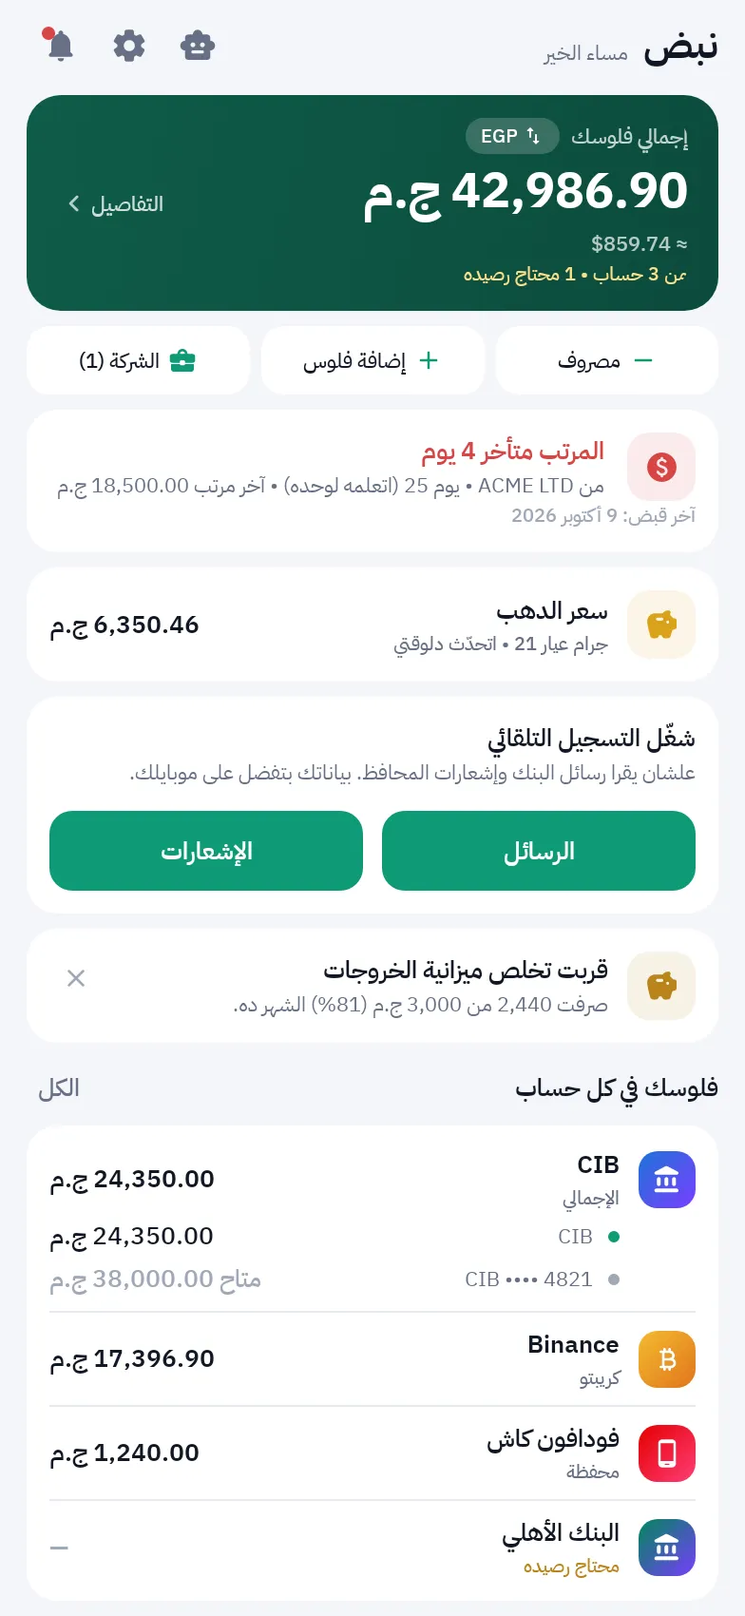
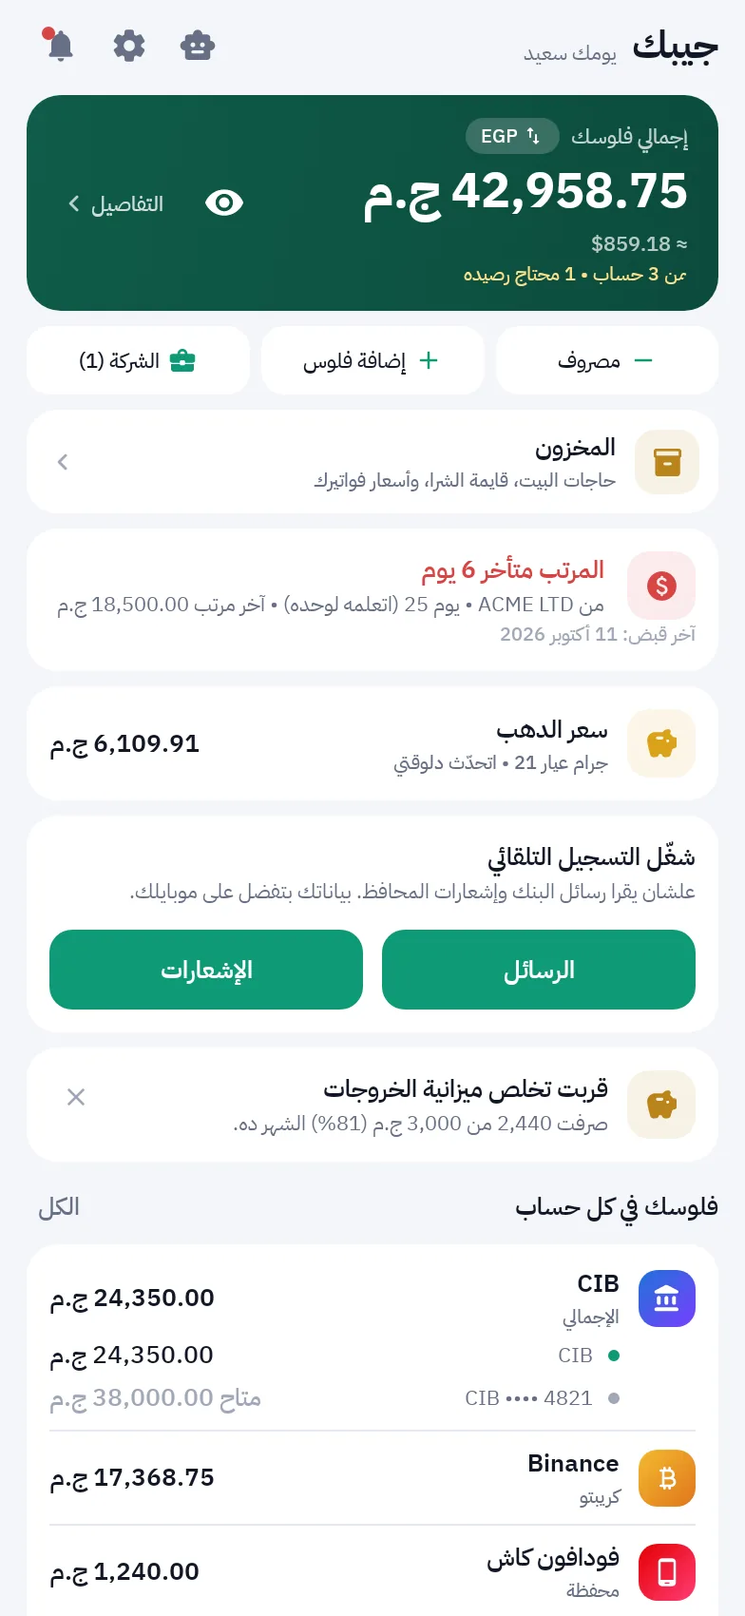
Rename the visible app to Geebak; 5.3
Package id, backup format, invoice numbers and repo links stay the same so updates and data keep working.

diff --git a/docs/about.html b/docs/about.html
@@ -3,11 +3,11 @@
 <head>
 <meta charset="utf-8">
 <meta name="viewport" content="width=device-width, initial-scale=1">
-<title>نبض — نبض فلوسك لحظة بلحظة</title>
-<meta name="description" content="نبض: تطبيق أندرويد بالعربي بيقرا رسايل البنك والمحافظ ويسجل فلوسك لوحده. حسابات، مصاريف شركة، فاتورة وExcel، مخزون البيت وقايمة الشرا، قراءة فواتير السوبر ماركت، سعر الدولار والدهب، تسجيل بالصوت. مفتوح المصدر وبياناتك على موبايلك.">
+<title>جيبك — كل اللي في جيبك، لحظة بلحظة</title>
+<meta name="description" content="جيبك: تطبيق أندرويد بالعربي بيقرا رسايل البنك والمحافظ ويسجل فلوسك لوحده. حسابات، مصاريف شركة، فاتورة وExcel، مخزون البيت وقايمة الشرا، قراءة فواتير السوبر ماركت، سعر الدولار والدهب، تسجيل بالصوت. مفتوح المصدر وبياناتك على موبايلك.">
 <meta name="color-scheme" content="light">
 <meta name="theme-color" content="#FFFFFF">
-<meta property="og:title" content="نبض — نبض فلوسك لحظة بلحظة">
+<meta property="og:title" content="جيبك — كل اللي في جيبك، لحظة بلحظة">
 <meta property="og:description" content="يقرا رسايل البنك والمحافظ ويسجل لوحده. بياناتك على موبايلك، والكود مفتوح.">
 <meta property="og:type" content="website">
 <meta property="og:image" content="https://walidmahmoud101.github.io/nabd/screenshots/1_home_light.png">
@@ -245,9 +245,9 @@ footer a{color:var(--ink)}
 
 <header>
   <div class="wrap nav">
-    <a class="logo" href="#top" aria-label="نبض">
+    <a class="logo" href="#top" aria-label="جيبك">
       <svg viewBox="0 0 64 64" aria-hidden="true"><rect width="64" height="64" rx="16" fill="#0F6B4F"/><path d="M8 34h12l6-16 10 28 7-16h13" fill="none" stroke="#fff" stroke-width="5" stroke-linecap="round" stroke-linejoin="round"/></svg>
-      نبض
+      جيبك
     </a>
     <nav aria-label="أقسام الصفحة">
       <a href="#features">المميزات</a><a href="#stock">المخزون</a><a href="#screens">الصور</a><a href="#privacy">الخصوصية</a><a href="#licenses">التراخيص</a><a href="#faq">أسئلة</a>
@@ -260,7 +260,7 @@ footer a{color:var(--ink)}
 <div class="hero">
   <svg class="band" id="band" viewBox="0 0 1600 340" preserveAspectRatio="xMidYMid slice" aria-hidden="true"><defs><linearGradient id="iris" gradientUnits="userSpaceOnUse" x1="1600" y1="0" x2="0" y2="0"><stop offset="0" style="stop-color:var(--line)"/><stop offset=".36" style="stop-color:var(--line)"/><stop offset=".435" style="stop-color:var(--green)"/><stop offset=".51" style="stop-color:var(--line)"/><stop offset="1" style="stop-color:var(--line)"/></linearGradient></defs></svg>
   <div class="wrap">
-    <h1>نبض فلوسك<br>لحظة بلحظة</h1>
+    <h1>كل اللي في جيبك<br>لحظة بلحظة</h1>
     <div class="hero-body">
       <p class="lead">تطبيق أندرويد بالعربي بيقرا رسايل البنك والمحافظ وإشعارات التطبيقات ويسجل كل حاجة لوحده، ويقولك فلوسك راحت فين، والشركة مديونالك بكام، وإيه اللي خلص من البيت، وسعر الدولار والدهب النهاردة.</p>
       <div class="cta">
@@ -278,7 +278,7 @@ footer a{color:var(--ink)}
 
 <section class="sec" id="features"><div class="wrap">
   <h2>كل فلوسك في مكان واحد</h2>
-  <p class="sub">من أول رسالة بنك لحد فاتورة المحاسب. نبض بيشتغل في الخلفية وانت بتعيش حياتك.</p>
+  <p class="sub">من أول رسالة بنك لحد فاتورة المحاسب. جيبك بيشتغل في الخلفية وانت بتعيش حياتك.</p>
 
   <article class="reading">
     <div>
@@ -295,8 +295,8 @@ footer a{color:var(--ink)}
     <article class="entry"><h3>كل حساباتك</h3><p>إجمالي فلوسك، وإجمالي كل بنك ومحفظة وكارت. وتضيف Binance وTrust Wallet وVisa وGoogle Pay بإيدك بالمبلغ اللي معاك، وإشعاراتها بتتسجل عليها. وكل حساب بمزاجك: يتحسب في الإجمالي أو لأ، وتعدّله في أي وقت.</p></article>
     <article class="entry"><h3>مصاريف الشركة والعهدة</h3><p>اللي دفعته للشغل بالكمية والسعر، وفلوس الشركة اللي معاك، والصافي بينكم. والتحويل منها يقفل المصاريف المستحقة لوحده.</p></article>
     <article class="entry paper">
-      <div><h3>فاتورة PDF وExcel</h3><p>فاتورة باسم نبض جاهزة للطباعة وملف Excel للمحاسب بإجمالي بمعادلة، من مصاريف الشركة بضغطة. وكل فاتورة بتتحفظ برقمها وتبحث بيه.</p></div>
-      <figure><img src="screenshots/web/invoice.webp" width="952" height="1347" loading="lazy" alt="فاتورة مصاريف من نبض ببيانات تجريبية"></figure>
+      <div><h3>فاتورة PDF وExcel</h3><p>فاتورة باسم جيبك جاهزة للطباعة وملف Excel للمحاسب بإجمالي بمعادلة، من مصاريف الشركة بضغطة. وكل فاتورة بتتحفظ برقمها وتبحث بيه.</p></div>
+      <figure><img src="screenshots/web/invoice.webp" width="952" height="1347" loading="lazy" alt="فاتورة مصاريف من جيبك ببيانات تجريبية"></figure>
     </article>
     <article class="entry said">
       <h3>سجّل بصوتك</h3>
@@ -344,7 +344,7 @@ footer a{color:var(--ink)}
   <div class="steps">
     <svg class="beat" viewBox="0 0 1200 88" preserveAspectRatio="none" aria-hidden="true"><path d="M1200 66H1198l-14-44-22 62-16-30-10 12H783l-14-44-22 62-16-30-10 12H366l-14-44-22 62-16-30-10 12H0"/></svg>
     <div class="step"><h3>نزّل وثبّت</h3><p>نزّل <code>nabd.apk</code> من صفحة آخر نسخة وثبّته (اسمح بالتثبيت من المصدر).</p></div>
-    <div class="step"><h3>ادي الصلاحيات</h3><p>صلاحية الرسايل، وفعّل «الوصول للإشعارات» لنبض علشان يلقط إشعارات InstaPay وBinance وغيرها.</p></div>
+    <div class="step"><h3>ادي الصلاحيات</h3><p>صلاحية الرسايل، وفعّل «الوصول للإشعارات» لجيبك علشان يلقط إشعارات InstaPay وBinance وغيرها.</p></div>
     <div class="step"><h3>سيبه يشتغل</h3><p>بيفحص رسايل آخر 4 شهور ويبني تاريخك، وكل عملية جديدة بتتسجل لحظتها حتى والتطبيق مقفول.</p></div>
   </div>
 </div></section>
@@ -371,7 +371,7 @@ footer a{color:var(--ink)}
     <figure><div class="phone"><img src="screenshots/web/8_receipt_light.webp" width="784" height="1700" loading="lazy" alt="مراجعة الفاتورة"></div><figcaption>مراجعة الفاتورة</figcaption></figure>
     <figure><div class="phone"><img src="screenshots/web/9_carrefour_light.webp" width="784" height="1700" loading="lazy" alt="أقسام كارفور"></div><figcaption>أقسام كارفور</figcaption></figure>
     <figure class="sheet-shot"><img src="screenshots/web/invoice.webp" width="952" height="1347" loading="lazy" alt="الفاتورة"><figcaption>فاتورة PDF للمحاسب</figcaption></figure>
-    <figure><div class="phone"><img src="screenshots/web/about_light.webp" width="784" height="1700" loading="lazy" alt="عن نبض"></div><figcaption>عن نبض</figcaption></figure>
+    <figure><div class="phone"><img src="screenshots/web/about_light.webp" width="784" height="1700" loading="lazy" alt="عن جيبك"></div><figcaption>عن جيبك</figcaption></figure>
   </div>
 </section>
 
@@ -395,9 +395,9 @@ footer a{color:var(--ink)}
 
 <section class="sec" id="licenses"><div class="wrap">
   <h2>التراخيص</h2>
-  <p class="sub">نبض مفتوح المصدر. وبيستخدم مكتبات وخط وخدمات تانية تحت تراخيصها، دي كلها.</p>
+  <p class="sub">جيبك مفتوح المصدر. وبيستخدم مكتبات وخط وخدمات تانية تحت تراخيصها، دي كلها.</p>
   <div class="mit">
-    <h3>نبض: MIT</h3>
+    <h3>جيبك: MIT</h3>
     <p>© 2026 Walid Elsayed. تقدر تستخدم الكود وتعدّل عليه وتوزّعه، بشرط تسيب إشعار الحقوق. البرنامج «زي ما هو» من غير ضمان. <a class="link" href="https://github.com/WalidMahmoud101/nabd/blob/main/LICENSE">النص الكامل</a></p>
   </div>
   <div class="tablewrap" tabindex="0" role="region" aria-label="جدول التراخيص"><table>
@@ -425,13 +425,13 @@ footer a{color:var(--ink)}
 <section class="sec" id="faq"><div class="wrap faq">
   <h2>أسئلة بتتكرر</h2>
   <div>
-    <details><summary>هل نبض بيبعت بياناتي لأي مكان؟</summary><p>لأ. كل حاجة على موبايلك. النت بيُستخدم لتحديث التطبيق وسعر الدولار وسعر الدهب بس، ومفيش بيانات مالية بتتبعت.</p></details>
-    <details><summary>ليه محتاج صلاحية الرسايل والإشعارات؟</summary><p>علشان يقرا رسايل البنك والمحافظ ويسجل العمليات لوحده. التطبيقات زي InstaPay وBinance مابتدّيش API، فنبض بيقرا إشعاراتها اللي بتظهر على الموبايل.</p></details>
+    <details><summary>هل جيبك بيبعت بياناتي لأي مكان؟</summary><p>لأ. كل حاجة على موبايلك. النت بيُستخدم لتحديث التطبيق وسعر الدولار وسعر الدهب بس، ومفيش بيانات مالية بتتبعت.</p></details>
+    <details><summary>ليه محتاج صلاحية الرسايل والإشعارات؟</summary><p>علشان يقرا رسايل البنك والمحافظ ويسجل العمليات لوحده. التطبيقات زي InstaPay وBinance مابتدّيش API، فجيبك بيقرا إشعاراتها اللي بتظهر على الموبايل.</p></details>
     <details><summary>صورة الفاتورة بتروح فين؟</summary><p>مابتطلعش من موبايلك. القراءة بتتم جوه التطبيق من غير نت، واللي بيتحفظ هو الأصناف والأسعار بعد ما تراجعها.</p></details>
     <details><summary>قراءة الفاتورة دقيقة؟</summary><p>بتتحسن بالإضاءة الكويسة والفاتورة المفرودة، بس ممكن تغلط في بعض الأرقام والأسماء، خصوصاً الأرقام العربية. علشان كده فيه شاشة مراجعة قبل الحفظ، وبتنبهك لو المجموع مش مطابق.</p></details>
-    <details><summary>نبض تبع كارفور؟</summary><p>لأ. خانة كارفور قايمة أقسام وأصناف جاهزة جوه التطبيق علشان الإضافة تبقى أسرع، من غير اتصال بكارفور ومن غير أسعار منه. والقايمة بتتحدث مع التطبيق.</p></details>
-    <details><summary>ينفع على آيفون؟ وApple Pay؟</summary><p>نبض أندرويد بس. وApple Pay مابيبعتش إشعارات لأندرويد، فعملياته بتتسجل بإيدك أو بالصوت.</p></details>
-    <details><summary>هو على Google Play؟</summary><p>لأ، بسبب صلاحية الرسايل. بتنزّله من صفحة GitHub وبيتحدث من جوا التطبيق. نبض بيتحقق لما تفتحه، وكل كام ساعة في الخلفية، وبيقولك لما تنزل نسخة جديدة.</p></details>
+    <details><summary>جيبك تبع كارفور؟</summary><p>لأ. خانة كارفور قايمة أقسام وأصناف جاهزة جوه التطبيق علشان الإضافة تبقى أسرع، من غير اتصال بكارفور ومن غير أسعار منه. والقايمة بتتحدث مع التطبيق.</p></details>
+    <details><summary>ينفع على آيفون؟ وApple Pay؟</summary><p>جيبك أندرويد بس. وApple Pay مابيبعتش إشعارات لأندرويد، فعملياته بتتسجل بإيدك أو بالصوت.</p></details>
+    <details><summary>هو على Google Play؟</summary><p>لأ، بسبب صلاحية الرسايل. بتنزّله من صفحة GitHub وبيتحدث من جوا التطبيق. جيبك بيتحقق لما تفتحه، وكل كام ساعة في الخلفية، وبيقولك لما تنزل نسخة جديدة.</p></details>
     <details><summary>التحديث بيمسح بياناتي؟</summary><p>لأ. التحديث بيتثبّت فوق القديم بنفس المفتاح، والبيانات بتفضل. وتقدر تعمل نسخة احتياطية قبلها.</p></details>
     <details><summary>سعر الدهب ده سعر المحلات؟</summary><p>ده السعر العالمي × سعر الدولار. محلات الصاغة بتزود المصنعية والدمغة، فيه خانة علاوة أو خصم السوق المحلي تضبطها.</p></details>
     <details><summary>لقيت مشكلة أو عايز ميزة؟</summary><p>افتح <a class="link" href="https://github.com/WalidMahmoud101/nabd/issues">Issue على GitHub</a> وهنبص عليها.</p></details>

diff --git a/app/src/main/java/com/nabd/money/ui/screens/AboutSheet.kt b/app/src/main/java/com/nabd/money/ui/screens/AboutSheet.kt
@@ -92,11 +92,11 @@ data class AboutStats(val transactions: Int, val auto: Int, val manual: Int, val
     val autoPercent get() = if (transactions == 0) 0 else auto * 100 / transactions
 }
 
-/** مكتبات وخط وخدمات نبض بيستخدمها وتراخيصها (نفس اللي في THIRD_PARTY_LICENSES.md) */
+/** مكتبات وخط وخدمات جيبك بيستخدمها وتراخيصها (نفس اللي في THIRD_PARTY_LICENSES.md) */
 data class LicenseItem(val name: String, val use: String, val license: String)
 
 val licenseItems = listOf(
-    LicenseItem("نبض", "التطبيق نفسه", "MIT"),
+    LicenseItem("جيبك", "التطبيق نفسه", "MIT"),
     LicenseItem("Kotlin و Coroutines", "اللغة والتزامن", "Apache 2.0"),
     LicenseItem("Jetpack Compose + Material 3", "الواجهة", "Apache 2.0"),
     LicenseItem("AndroidX (Core، Activity، Lifecycle)", "أساسيات أندرويد", "Apache 2.0"),
@@ -119,7 +119,7 @@ private data class Feature(val icon: ImageVector, val color: Color, val title: S
 private val features = listOf(
     Feature(Icons.Rounded.Sms, Color(0xFF2F9E7E), "بيسجّل لوحده", "بيقرا رسايل البنك والمحافظ وإشعارات InstaPay وBinance وغيرهم، ويطلّع اتخصم كام والباقي كام. ويتجاهل الأكواد السرية والإعلانات."),
     Feature(Icons.Rounded.AccountBalanceWallet, Color(0xFF4C7BE0), "كل حساباتك", "إجمالي فلوسك وإجمالي كل بنك ومحفظة وكارت. وتضيف Binance وVisa وغيرهم بإيدك، والكاش (جيبك) حساب حقيقي."),
-    Feature(Icons.Rounded.BusinessCenter, Color(0xFF2E9BC9), "مصاريف الشركة والعهدة", "اللي دفعته للشغل، وفلوس الشركة اللي معاك، والصافي بينكم. وفاتورة PDF باسم نبض وملف Excel للمحاسب."),
+    Feature(Icons.Rounded.BusinessCenter, Color(0xFF2E9BC9), "مصاريف الشركة والعهدة", "اللي دفعته للشغل، وفلوس الشركة اللي معاك، والصافي بينكم. وفاتورة PDF باسم جيبك وملف Excel للمحاسب."),
     Feature(Icons.Rounded.Inventory2, Color(0xFFC98A1B), "المخزون وقايمة الشرا", "علّم اللي خلص من البيت فمايتنسيش، وصوّر الفاتورة تتقرا على موبايلك، ويقولك السعر الجديد غالي ولا رخيص عن آخر مرة."),
     Feature(Icons.Rounded.Mic, Color(0xFFE0663E), "سجّل بصوتك", "«ضيف في بينانس 100 دولار» أو «اتخصم 250 من الفيزا»: بيفهم المصري والأرقام بالكلام."),
     Feature(Icons.Rounded.CurrencyExchange, Color(0xFFD9A21B), "الدولار والدهب", "سعر الدولار بيتحدث لوحده، واضغط على إجمالي فلوسك يتحول للدولار. وسعر الدهب بالجنيه لكل العيارات أول بأول."),
@@ -128,7 +128,7 @@ private val features = listOf(
 )
 
 /**
- * عن نبض: بياناتك الحقيقية، اللي بيعمله، الخصوصية، والروابط.
+ * عن جيبك: بياناتك الحقيقية، اللي بيعمله، الخصوصية، والروابط.
  * منفصل عن الـ ViewModel علشان يتعرض في الاختبارات والمعاينة.
  */
 @OptIn(ExperimentalLayoutApi::class)
@@ -151,7 +151,7 @@ fun AboutContent(
         Hero(versionName, versionCode)
 
         // أرقامك
-        Text("نبض لحد دلوقتي", style = MaterialTheme.typography.titleMedium)
+        Text("جيبك لحد دلوقتي", style = MaterialTheme.typography.titleMedium)
         Row(horizontalArrangement = Arrangement.spacedBy(10.dp)) {
             StatCard("عملية اتسجلت", stats.transactions, Modifier.weight(1f))
             StatCard("منها لوحدها", stats.autoPercent, Modifier.weight(1f), suffix = "%")
@@ -165,7 +165,7 @@ fun AboutContent(
         }
 
         // اللي بيعمله
-        Text("إيه اللي نبض بيعمله", style = MaterialTheme.typography.titleMedium, modifier = Modifier.padding(top = 6.dp))
+        Text("إيه اللي جيبك بيعمله", style = MaterialTheme.typography.titleMedium, modifier = Modifier.padding(top = 6.dp))
         features.forEach { f ->
             GlassCard(Modifier.fillMaxWidth(), padding = 12.dp) {
                 Row(verticalAlignment = Alignment.Top) {
@@ -246,7 +246,7 @@ fun AboutContent(
                 Spacer(Modifier.width(12.dp))
                 Column(Modifier.weight(1f)) {
                     Text("التراخيص", style = MaterialTheme.typography.titleSmall)
-                    Text("المكتبات والخط والخدمات اللي نبض شايلها", style = MaterialTheme.typography.labelSmall, color = NabdColors.TextDim)
+                    Text("المكتبات والخط والخدمات اللي جيبك شايلها", style = MaterialTheme.typography.labelSmall, color = NabdColors.TextDim)
                 }
                 Text(if (licensesOpen) "اقفل" else "افتح", style = MaterialTheme.typography.labelLarge, color = NabdColors.TextDim)
             }
@@ -331,10 +331,10 @@ private fun Hero(versionName: String, versionCode: Int) {
             }
         }
         Spacer(Modifier.height(6.dp))
-        Text("نبض", fontSize = 38.sp, fontWeight = FontWeight.Bold, color = Color.White)
-        Text("Nabd", style = MaterialTheme.typography.labelLarge, color = Color.White.copy(alpha = 0.7f))
+        Text("جيبك", fontSize = 38.sp, fontWeight = FontWeight.Bold, color = Color.White)
+        Text("Geebak", style = MaterialTheme.typography.labelLarge, color = Color.White.copy(alpha = 0.7f))
         Spacer(Modifier.height(6.dp))
-        Text("نبض فلوسك لحظة بلحظة", style = MaterialTheme.typography.bodyMedium, color = Color.White.copy(alpha = 0.9f))
+        Text("كل اللي في جيبك، لحظة بلحظة", style = MaterialTheme.typography.bodyMedium, color = Color.White.copy(alpha = 0.9f))
         Spacer(Modifier.height(12.dp))
         Text(
             "الإصدار $versionName  •  رقم $versionCode",
@@ -355,7 +355,7 @@ private fun StatCard(label: String, value: Int, modifier: Modifier, suffix: Stri
     }
 }
 
-/** عن نبض (شاشة كاملة): بيحسب أرقامك من قاعدة البيانات اللي على الموبايل */
+/** عن جيبك (شاشة كاملة): بيحسب أرقامك من قاعدة البيانات اللي على الموبايل */
 @OptIn(ExperimentalMaterial3Api::class)
 @Composable
 fun AboutSheet(vm: AppViewModel, onDismiss: () -> Unit) {

diff --git a/app/src/main/java/com/nabd/money/util/CompanyInvoice.kt b/app/src/main/java/com/nabd/money/util/CompanyInvoice.kt
@@ -61,7 +61,7 @@ data class InvoiceInfo(
 }
 
 /**
- * فاتورة مصاريف الشركة: PDF بشكل شيك باسم نبض (للطباعة والتسليم)، وملف Excel (.xlsx) للمحاسب.
+ * فاتورة مصاريف الشركة: PDF بشكل شيك باسم جيبك (للطباعة والتسليم)، وملف Excel (.xlsx) للمحاسب.
  * من غير أي مكتبة: PDF بـ android.graphics.pdf، والـ xlsx ملف zip فيه XML.
  */
 object CompanyInvoice {
@@ -235,7 +235,7 @@ object CompanyInvoice {
                 color = Color.WHITE; style = Paint.Style.STROKE; strokeWidth = 2.6f
                 strokeCap = Paint.Cap.ROUND; strokeJoin = Paint.Join.ROUND
             })
-            cell(c, "نبض", tp(f.bold, 28f, Color.WHITE), RIGHT - 70f - 160f, 54f, 160f, RIGHT_ALIGN)
+            cell(c, "جيبك", tp(f.bold, 28f, Color.WHITE), RIGHT - 70f - 160f, 54f, 160f, RIGHT_ALIGN)
             cell(c, "إدارة فلوسك بذكاء", tp(f.regular, 10f, Color.parseColor("#CFEBDD")), RIGHT - 70f - 160f, 92f, 160f, RIGHT_ALIGN)
             // يسار الهيدر: نوع المستند ورقمه
             cell(c, "فاتورة مصاريف", tp(f.bold, 17f, Color.WHITE), LEFT + 16f, 50f, 190f, LEFT_ALIGN)
@@ -257,7 +257,7 @@ object CompanyInvoice {
             cell(c, "${info.items.size} بند", value, LEFT, 187f, colWd, RIGHT_ALIGN)
             y = FIRST_TABLE_Y
         } else {
-            cell(c, "نبض • فاتورة ${info.number}", tp(f.medium, 10f, DIM), LEFT, 40f, RIGHT - LEFT, RIGHT_ALIGN)
+            cell(c, "جيبك • فاتورة ${info.number}", tp(f.medium, 10f, DIM), LEFT, 40f, RIGHT - LEFT, RIGHT_ALIGN)
             c.drawLine(LEFT, 60f, RIGHT, 60f, Paint().apply { color = LINE; strokeWidth = 1f })
             y = NEXT_TABLE_Y
         }
@@ -327,7 +327,7 @@ object CompanyInvoice {
 
         // الفوتر
         c.drawLine(LEFT, 806f, RIGHT, 806f, Paint().apply { color = LINE; strokeWidth = 0.8f })
-        cell(c, "اتعملت بتطبيق نبض", tp(f.regular, 9f, DIM), LEFT, 812f, RIGHT - LEFT, CENTER)
+        cell(c, "اتعملت بتطبيق جيبك", tp(f.regular, 9f, DIM), LEFT, 812f, RIGHT - LEFT, CENTER)
         cell(c, "صفحة $pageNo من $pageCount", tp(f.regular, 9f, DIM), LEFT, 812f, 120f, LEFT_ALIGN)
     }
 
@@ -357,7 +357,7 @@ object CompanyInvoice {
         fun inl(ref: String, text: String, style: Int) = """<c r="$ref" s="$style" t="inlineStr"><is><t xml:space="preserve">${esc(text)}</t></is></c>"""
         fun num(ref: String, v: Double, style: Int) = """<c r="$ref" s="$style"><v>$v</v></c>"""
 
-        rows.append("""<row r="$r" ht="26" customHeight="1">${inl("A$r", "نبض — فاتورة مصاريف الشركة", 5)}</row>"""); r++
+        rows.append("""<row r="$r" ht="26" customHeight="1">${inl("A$r", "جيبك — فاتورة مصاريف الشركة", 5)}</row>"""); r++
         fun meta(label: String, value: String) {
             rows.append("""<row r="$r">${inl("A$r", label, 6)}${inl("B$r", value, 2)}</row>"""); r++
         }
@@ -404,7 +404,7 @@ object CompanyInvoice {
             }
         }
         r++
-        rows.append("""<row r="$r">${inl("A$r", "اتعملت بتطبيق نبض", 6)}</row>""")
+        rows.append("""<row r="$r">${inl("A$r", "اتعملت بتطبيق جيبك", 6)}</row>""")
 
         val widths = listOf(6, 16, 34, 18, 9, 14, 14, 9, 11, 30)
         val cols = widths.mapIndexed { i, w -> """<col min="${i + 1}" max="${i + 1}" width="$w" customWidth="1"/>""" }.joinToString("")

diff --git a/app/src/main/java/com/nabd/money/util/Updater.kt b/app/src/main/java/com/nabd/money/util/Updater.kt
@@ -127,7 +127,7 @@ object Updater {
         val code = tag.filter { it.isDigit() }.toIntOrNull() ?: return null
         return Release(
             versionCode = code,
-            name = "نبض (النسخة $code)",
+            name = "جيبك (النسخة $code)",
             notes = "",
             apkUrl = "https://github.com/$REPO/releases/download/$tag/nabd.apk",
             sizeBytes = 0,
@@ -150,7 +150,7 @@ object Updater {
     private fun dir(ctx: Context) = File(ctx.cacheDir, "updates").apply { mkdirs() }
 
     /**
-     * لو النسخة دي اتنزلت قبل كده: نتأكد إن الملف كامل وسليم (الحجم، وإنه نبض بنفس رقم النسخة)
+     * لو النسخة دي اتنزلت قبل كده: نتأكد إن الملف كامل وسليم (الحجم، وإنه جيبك بنفس رقم النسخة)
      * ونرجعه علشان مانزلوش تاني. أي ملف ناقص أو قديم أو بايظ بيتمسح.
      */
     suspend fun cached(ctx: Context, r: Release): File? = withContext(Dispatchers.IO) {
@@ -245,7 +245,7 @@ object Updater {
     fun install(ctx: Context, file: File) {
         val pm = ctx.packageManager
         if (!pm.canRequestPackageInstalls()) {
-            // أول مرة بس: لازم تسمح لنبض يثبت تحديثاته
+            // أول مرة بس: لازم تسمح لجيبك يثبت تحديثاته
             ctx.startActivity(
                 Intent(Settings.ACTION_MANAGE_UNKNOWN_APP_SOURCES, Uri.parse("package:${ctx.packageName}"))
                     .addFlags(Intent.FLAG_ACTIVITY_NEW_TASK)

diff --git a/app/src/main/java/com/nabd/money/ui/screens/Sheets.kt b/app/src/main/java/com/nabd/money/ui/screens/Sheets.kt
@@ -630,7 +630,7 @@ fun EditTxnSheet(
         }
     }
     if (confirmDelete) {
-        ConfirmDialog("حذف العملية؟", "هتتشال من نبض بس.", onDismiss = { confirmDelete = false }) {
+        ConfirmDialog("حذف العملية؟", "هتتشال من جيبك بس.", onDismiss = { confirmDelete = false }) {
             confirmDelete = false; onDelete(txn)
         }
     }
@@ -816,7 +816,7 @@ fun SettingsDialog(vm: AppViewModel, onDismiss: () -> Unit) {
                 )
                 PillButton("التصنيفات والقواعد", Icons.Rounded.Category, NabdColors.Mint, Modifier.fillMaxWidth()) { categories = true }
                 PillButton("النسخة الاحتياطية", Icons.Rounded.CloudDone, NabdColors.Mint, Modifier.fillMaxWidth()) { backup = true }
-                PillButton("عن نبض", Icons.Rounded.Favorite, NabdColors.Pink, Modifier.fillMaxWidth()) { about = true }
+                PillButton("عن جيبك", Icons.Rounded.Favorite, NabdColors.Pink, Modifier.fillMaxWidth()) { about = true }
                 // مراجعة شاملة للرسايل: بتصلّح العمليات والأرصدة اللي اتسجلت غلط
                 val heal by vm.healMessage.collectAsState()
                 PillButton("راجع كل الرسايل وصلّح", Icons.Rounded.Check, NabdColors.Cyan, Modifier.fillMaxWidth()) { vm.healAll() }

diff --git a/app/src/main/java/com/nabd/money/data/Backup.kt b/app/src/main/java/com/nabd/money/data/Backup.kt
@@ -41,7 +41,7 @@ object Backup {
         }.toString()
     }
 
-    /** بيرجع null لو الملف مش نسخة نبض */
+    /** بيرجع null لو الملف مش نسخة جيبك */
     fun info(json: String): BackupInfo? = runCatching {
         val o = JSONObject(json)
         if (o.optString("magic") != MAGIC) return null
@@ -59,7 +59,7 @@ object Backup {
 
     suspend fun restore(db: NabdDatabase, settings: Settings, json: String): BackupInfo {
         val o = JSONObject(json)
-        require(o.optString("magic") == MAGIC) { "الملف ده مش نسخة احتياطية من نبض" }
+        require(o.optString("magic") == MAGIC) { "الملف ده مش نسخة احتياطية من جيبك" }
         require(o.optInt("format") <= FORMAT) { "النسخة دي من إصدار أحدث، حدّث التطبيق الأول" }
         // نقرا كل حاجة الأول، علشان لو في غلط في الملف مانمسحش البيانات الحالية
         val accounts = o.getJSONArray("accounts").objects().map(::account)

diff --git a/app/src/main/java/com/nabd/money/ui/screens/InvoicesSheet.kt b/app/src/main/java/com/nabd/money/ui/screens/InvoicesSheet.kt
@@ -150,7 +150,7 @@ fun SavedInvoiceSheet(vm: AppViewModel, inv: Invoice, onDismiss: () -> Unit) {
                     runCatching { CompanyInvoice.print(ctx, CompanyInvoice.pdf(ctx, info), "فاتورة ${inv.number}") }.onFailure { note = "الطباعة ماشتغلتش: ${it.message}" }
                 }
                 PillButton("PDF", Icons.Rounded.PictureAsPdf, NabdColors.Danger, Modifier.weight(1f)) {
-                    runCatching { CompanyInvoice.share(ctx, CompanyInvoice.pdf(ctx, info), CompanyInvoice.MIME_PDF, "فاتورة نبض ${inv.number}") }.onFailure { note = "ماقدرتش أعمل الـ PDF: ${it.message}" }
+                    runCatching { CompanyInvoice.share(ctx, CompanyInvoice.pdf(ctx, info), CompanyInvoice.MIME_PDF, "فاتورة جيبك ${inv.number}") }.onFailure { note = "ماقدرتش أعمل الـ PDF: ${it.message}" }
                 }
             }
             GradientButton("Excel للمحاسب (.xlsx)", Modifier.fillMaxWidth(), Icons.Rounded.TableChart) {

diff --git a/app/src/main/java/com/nabd/money/util/Notifier.kt b/app/src/main/java/com/nabd/money/util/Notifier.kt
@@ -35,7 +35,7 @@ object Notifier {
     }
 
     fun capture(ctx: Context, t: Txn, account: Account) {
-        val agent = AgentRegistry.byId(t.agentId)?.name ?: "نبض"
+        val agent = AgentRegistry.byId(t.agentId)?.name ?: "جيبك"
         val verb = if (t.direction == Direction.OUT) "اتخصم" else "اتضاف"
         val title = "$verb ${Money.fmt(t.amount, t.currency)} • ${account.name}"
         val rest = Money.fmt(account.balance, account.currency)
@@ -54,7 +54,7 @@ object Notifier {
     }
 
     fun update(ctx: Context, name: String, notes: String) {
-        post(ctx, CH_ALERTS, 98, "تحديث جديد: $name", notes.ifBlank { "افتح نبض ودوس \"نزّل وثبّت\"." })
+        post(ctx, CH_ALERTS, 98, "تحديث جديد: $name", notes.ifBlank { "افتح جيبك ودوس \"نزّل وثبّت\"." })
     }
 
     fun digest(ctx: Context, title: String, body: String) {

diff --git a/app/src/test/java/com/nabd/money/UpdaterDownloadTest.kt b/app/src/test/java/com/nabd/money/UpdaterDownloadTest.kt
@@ -53,7 +53,7 @@ class UpdaterDownloadTest {
         return s
     }
 
-    private fun release(s: ServerSocket, size: Long) = Updater.Release(99, "نبض", "", "http://127.0.0.1:${s.localPort}/nabd.apk", size)
+    private fun release(s: ServerSocket, size: Long) = Updater.Release(99, "جيبك", "", "http://127.0.0.1:${s.localPort}/nabd.apk", size)
 
     @Test
     fun stoppingEndsAStalledDownloadRightAwayWithoutRetrying() = runBlocking {
@@ -83,7 +83,7 @@ class UpdaterDownloadTest {
 
     @Test
     fun theButtonAlwaysDoesSomethingUseful() {
-        val r = Updater.Release(9, "نبض", "", "", 0)
+        val r = Updater.Release(9, "جيبك", "", "", 0)
         assertEquals("اتحقق", UpdateState.Idle.action())
         assertEquals("اتحقق", UpdateState.UpToDate.action())
         assertEquals("اتحقق", UpdateState.Error("x").action())

diff --git a/app/src/main/java/com/nabd/money/ui/screens/HomeScreen.kt b/app/src/main/java/com/nabd/money/ui/screens/HomeScreen.kt
@@ -216,7 +216,7 @@ fun HomeScreen(
 private fun HomeHeader(unread: Int, onAgents: () -> Unit, onSettings: () -> Unit, onBell: () -> Unit, onAbout: () -> Unit) {
     Row(Modifier.fillMaxWidth().padding(top = 2.dp), verticalAlignment = Alignment.CenterVertically) {
         Row(Modifier.weight(1f), verticalAlignment = Alignment.Bottom) {
-            Text("نبض", style = MaterialTheme.typography.headlineSmall, modifier = Modifier.clip(RoundedCornerShape(8.dp)).clickable(onClick = onAbout))
+            Text("جيبك", style = MaterialTheme.typography.headlineSmall, modifier = Modifier.clip(RoundedCornerShape(8.dp)).clickable(onClick = onAbout))
             Spacer(Modifier.width(8.dp))
             Text(greeting(), style = MaterialTheme.typography.bodySmall, color = NabdColors.TextDim, modifier = Modifier.padding(bottom = 3.dp))
         }

diff --git a/app/src/main/java/com/nabd/money/ui/screens/InvoiceSheet.kt b/app/src/main/java/com/nabd/money/ui/screens/InvoiceSheet.kt
@@ -143,7 +143,7 @@ fun InvoiceSheet(
                     }
                     PillButton("PDF", Icons.Rounded.PictureAsPdf, NabdColors.Danger, Modifier.weight(1f)) {
                         act {
-                            runCatching { CompanyInvoice.share(ctx, CompanyInvoice.pdf(ctx, info), CompanyInvoice.MIME_PDF, "فاتورة نبض ${info.number}") }
+                            runCatching { CompanyInvoice.share(ctx, CompanyInvoice.pdf(ctx, info), CompanyInvoice.MIME_PDF, "فاتورة جيبك ${info.number}") }
                                 .onFailure { note = "ماقدرتش أعمل الـ PDF: ${it.message}" }
                         }
                     }

diff --git a/app/src/main/java/com/nabd/money/ui/screens/ResetSheet.kt b/app/src/main/java/com/nabd/money/ui/screens/ResetSheet.kt
@@ -91,7 +91,7 @@ fun ResetSheet(vm: AppViewModel, onDismiss: () -> Unit) {
                 enabled = true,
             ) { confirm = ResetScope.EVERYTHING }
             Text(
-                "المسح جوا نبض بس، رسايلك في الموبايل مش بتتمسح. والرسايل القديمة مش هتتسجل تاني.",
+                "المسح جوا جيبك بس، رسايلك في الموبايل مش بتتمسح. والرسايل القديمة مش هتتسجل تاني.",
                 style = MaterialTheme.typography.labelSmall, color = NabdColors.TextFaint
             )
             if (canUndo) {
